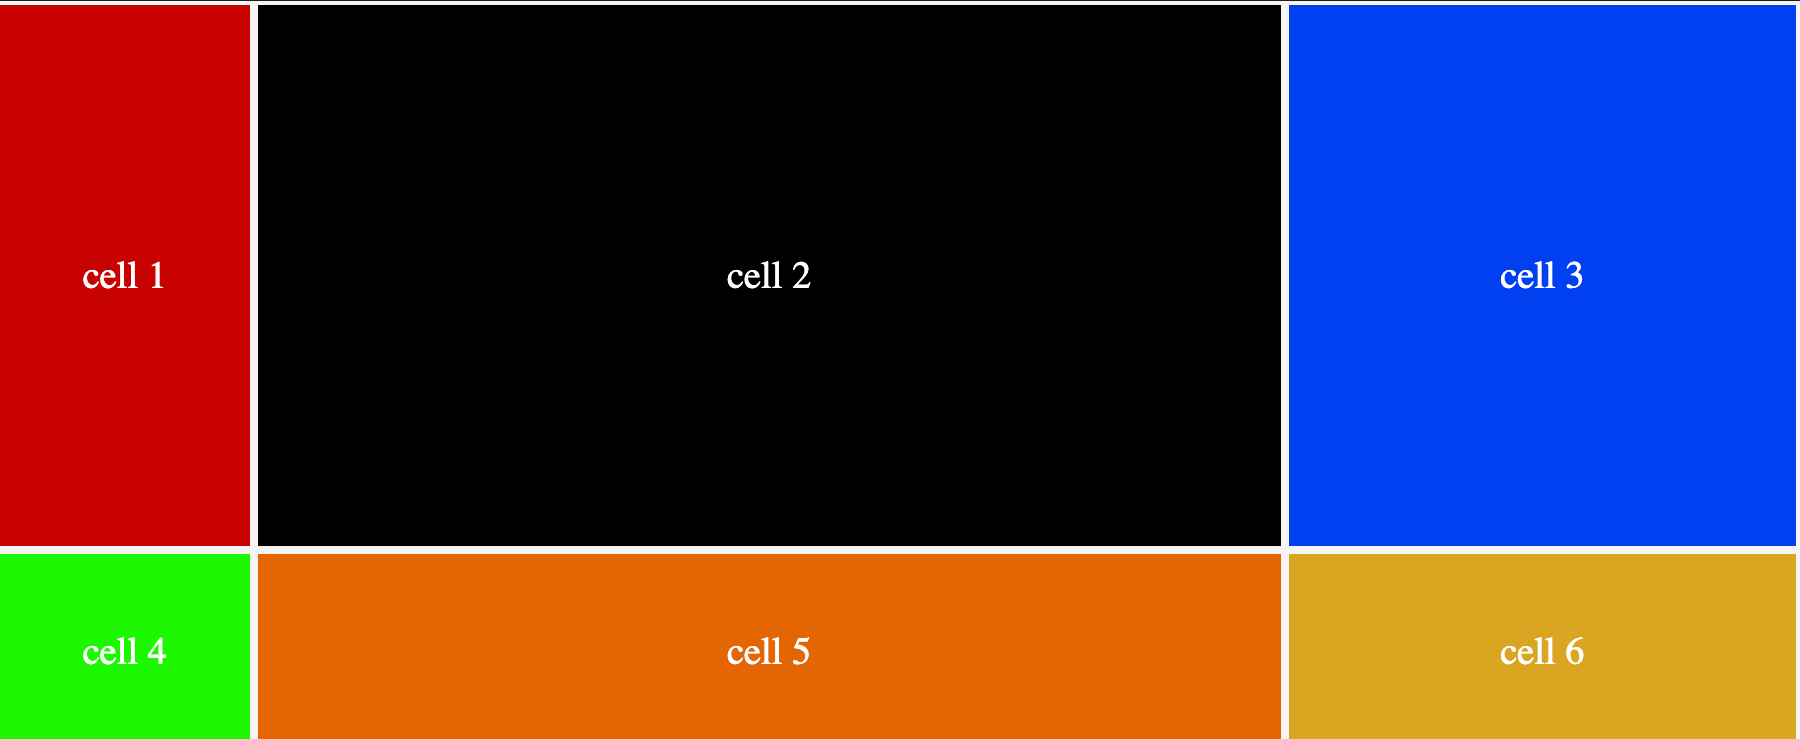
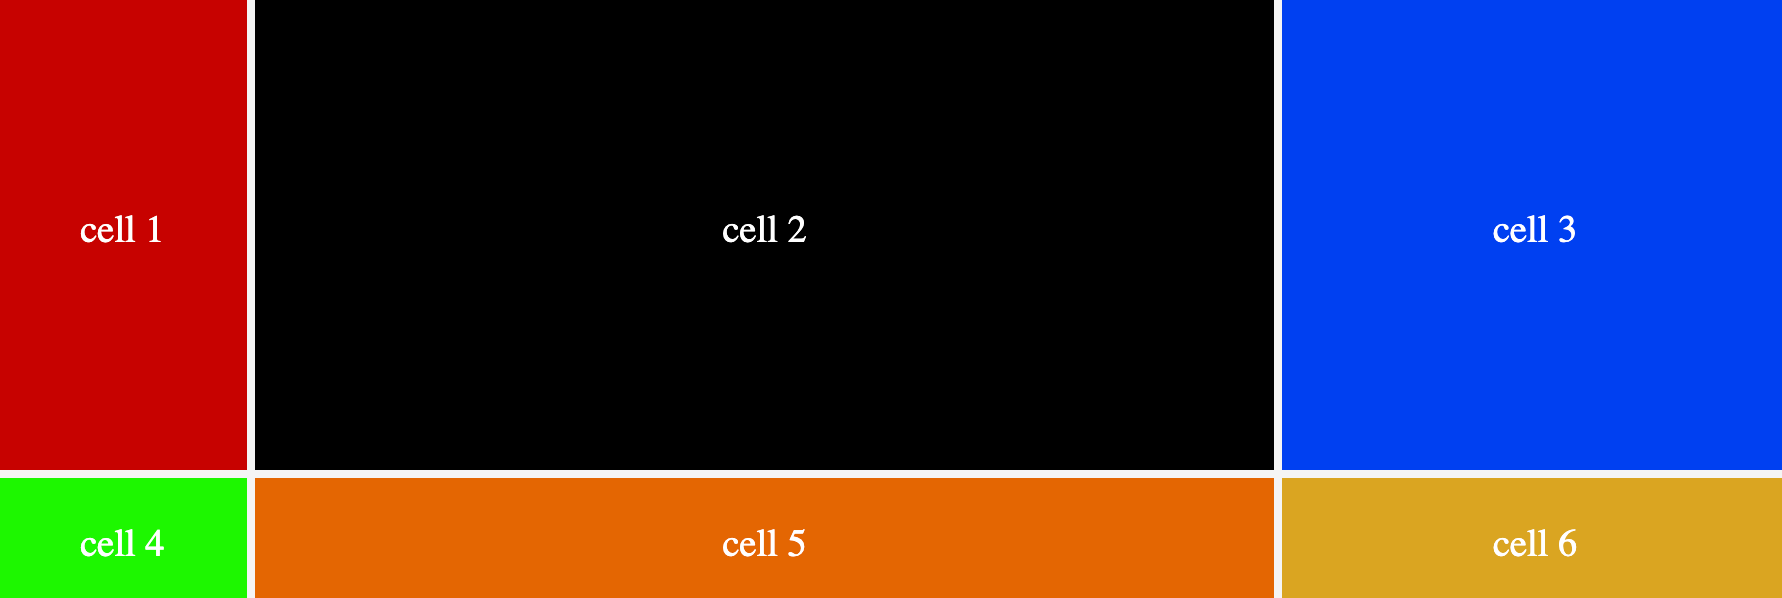
grid minmax

diff --git a/CSS/14-grid/03-minMax-grid/index.html b/CSS/14-grid/03-minMax-grid/index.html
@@ -12,15 +12,7 @@
 			<div class="cell cell-2">cell 2</div>
 			<div class="cell cell-3">cell 3</div>
 			<div class="cell cell-4">cell 4</div>
-			<div class="cell cell-5 para">
-				Lorem ipsum dolor sit, amet consectetur adipisicing elit. Impedit
-				aliquam dignissimos praesentium neque voluptate id facere. Sit ratione a
-				dignissimos, quidem commodi libero, eveniet corrupti ut reprehenderit
-				Lorem ipsum dolor sit amet consectetur adipisicing elit. Ut blanditiis,
-				officiis debitis voluptate veritatis quidem velit dolores a facilis
-				dolorem necessitatibus perferendis earum nihil tempora totam aliquid
-				neque numquam impedit? omnis, sint eos.
-			</div>
+			<div class="cell cell-5">cell 5</div>
 			<div class="cell cell-6">cell 6</div>
 		</div>
 	</body>

diff --git a/CSS/14-grid/03-minMax-grid/README.md b/CSS/14-grid/03-minMax-grid/README.md
@@ -23,13 +23,13 @@ Lets Explore with some examples:
 `grid-template-columns: 0.25fr minmax(100px, 50%) 0.5fr;`: It specifies there is going to be 3 columns, the first column will take 0.25 fraction of available space, the second column will occupy at least `200px` of the container and can go up to `50%` of container, but not less than `200px` and the last column will take `0.5` fraction of the available space.
 
 <figure> 
-<img src="../assets/minmax.png" alt="grid minmax function" height="360" width="1260" />
+<img src="../assets/minmax.png" alt="grid minmax function" height="340" width="1192" />
 <figcaption><p align="center">grid mimax function</p></figcaption>
 </figure>
 
 In the following image, it can be observed that the second row stretched because of its content size and the value we added for max-value in minmax() function was `auto`.
 
 <figure> 
-<img src="../assets/minmax-content.png" alt="grid minmax function" height="420" width="1260" />
+<img src="../assets/minmax-content.png" alt="grid minmax function" height="420" width="1192" />
 <figcaption><p align="center">grid minmax function with content in second row.</p></figcaption>
 </figure>
